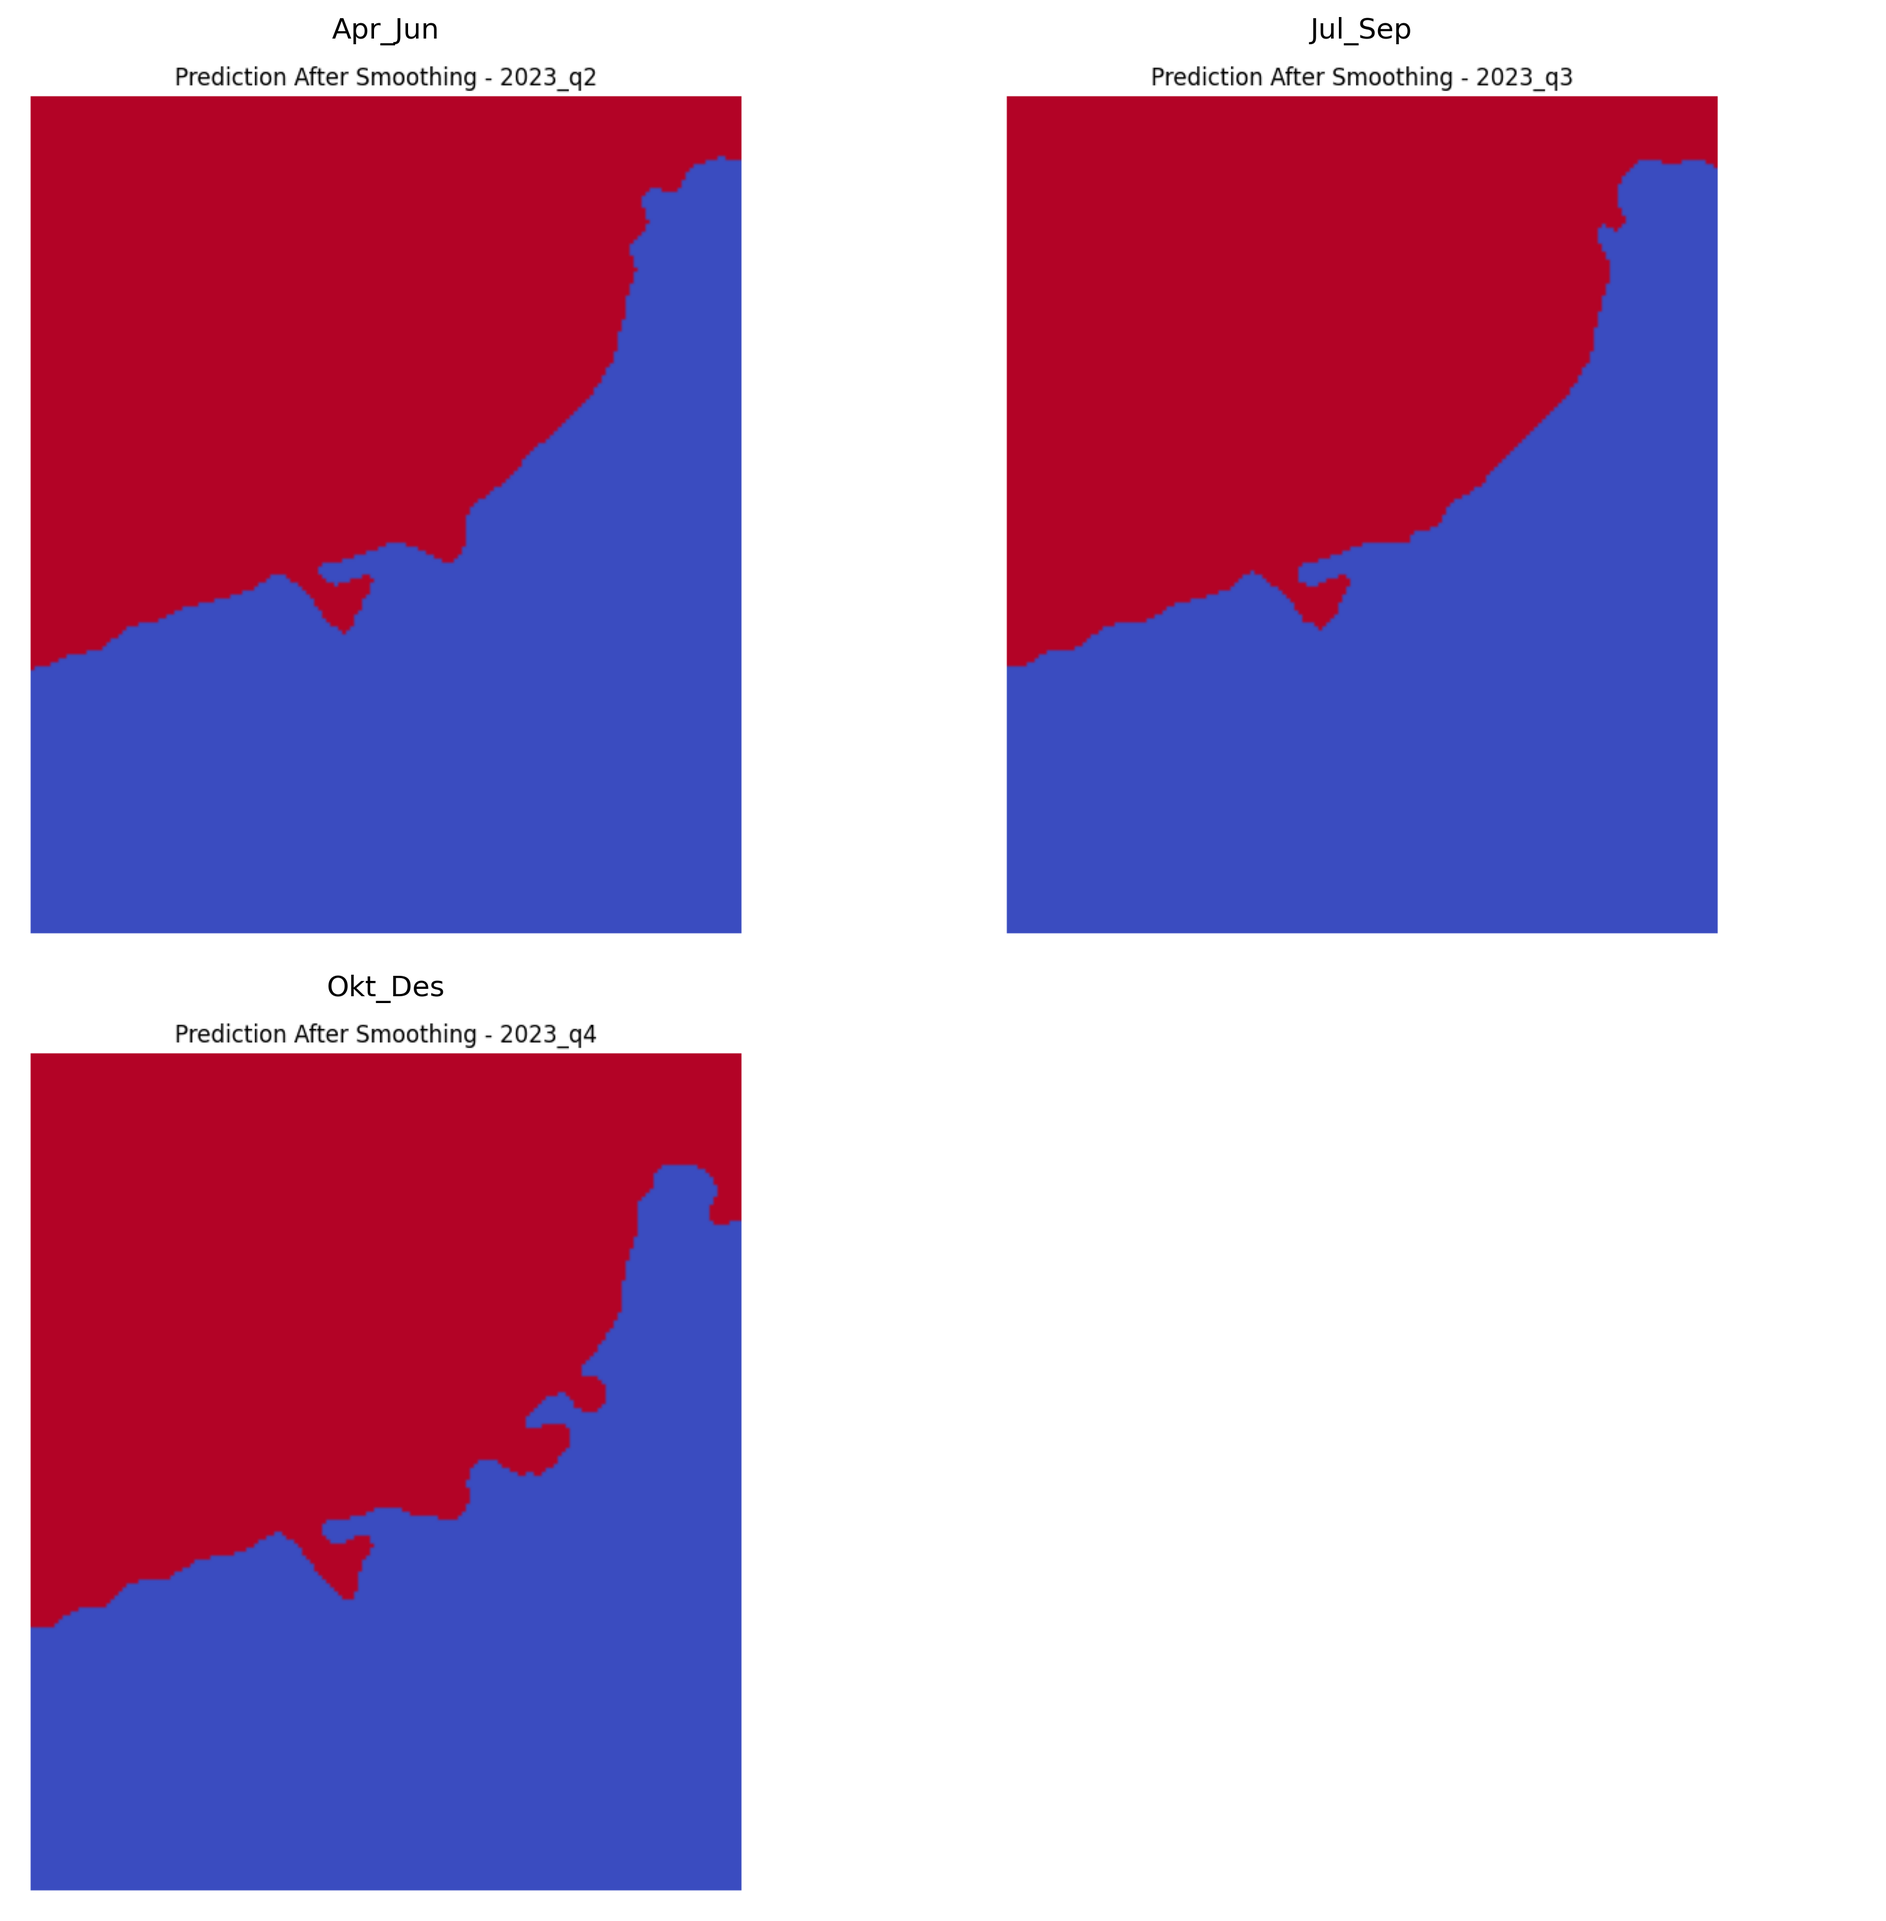
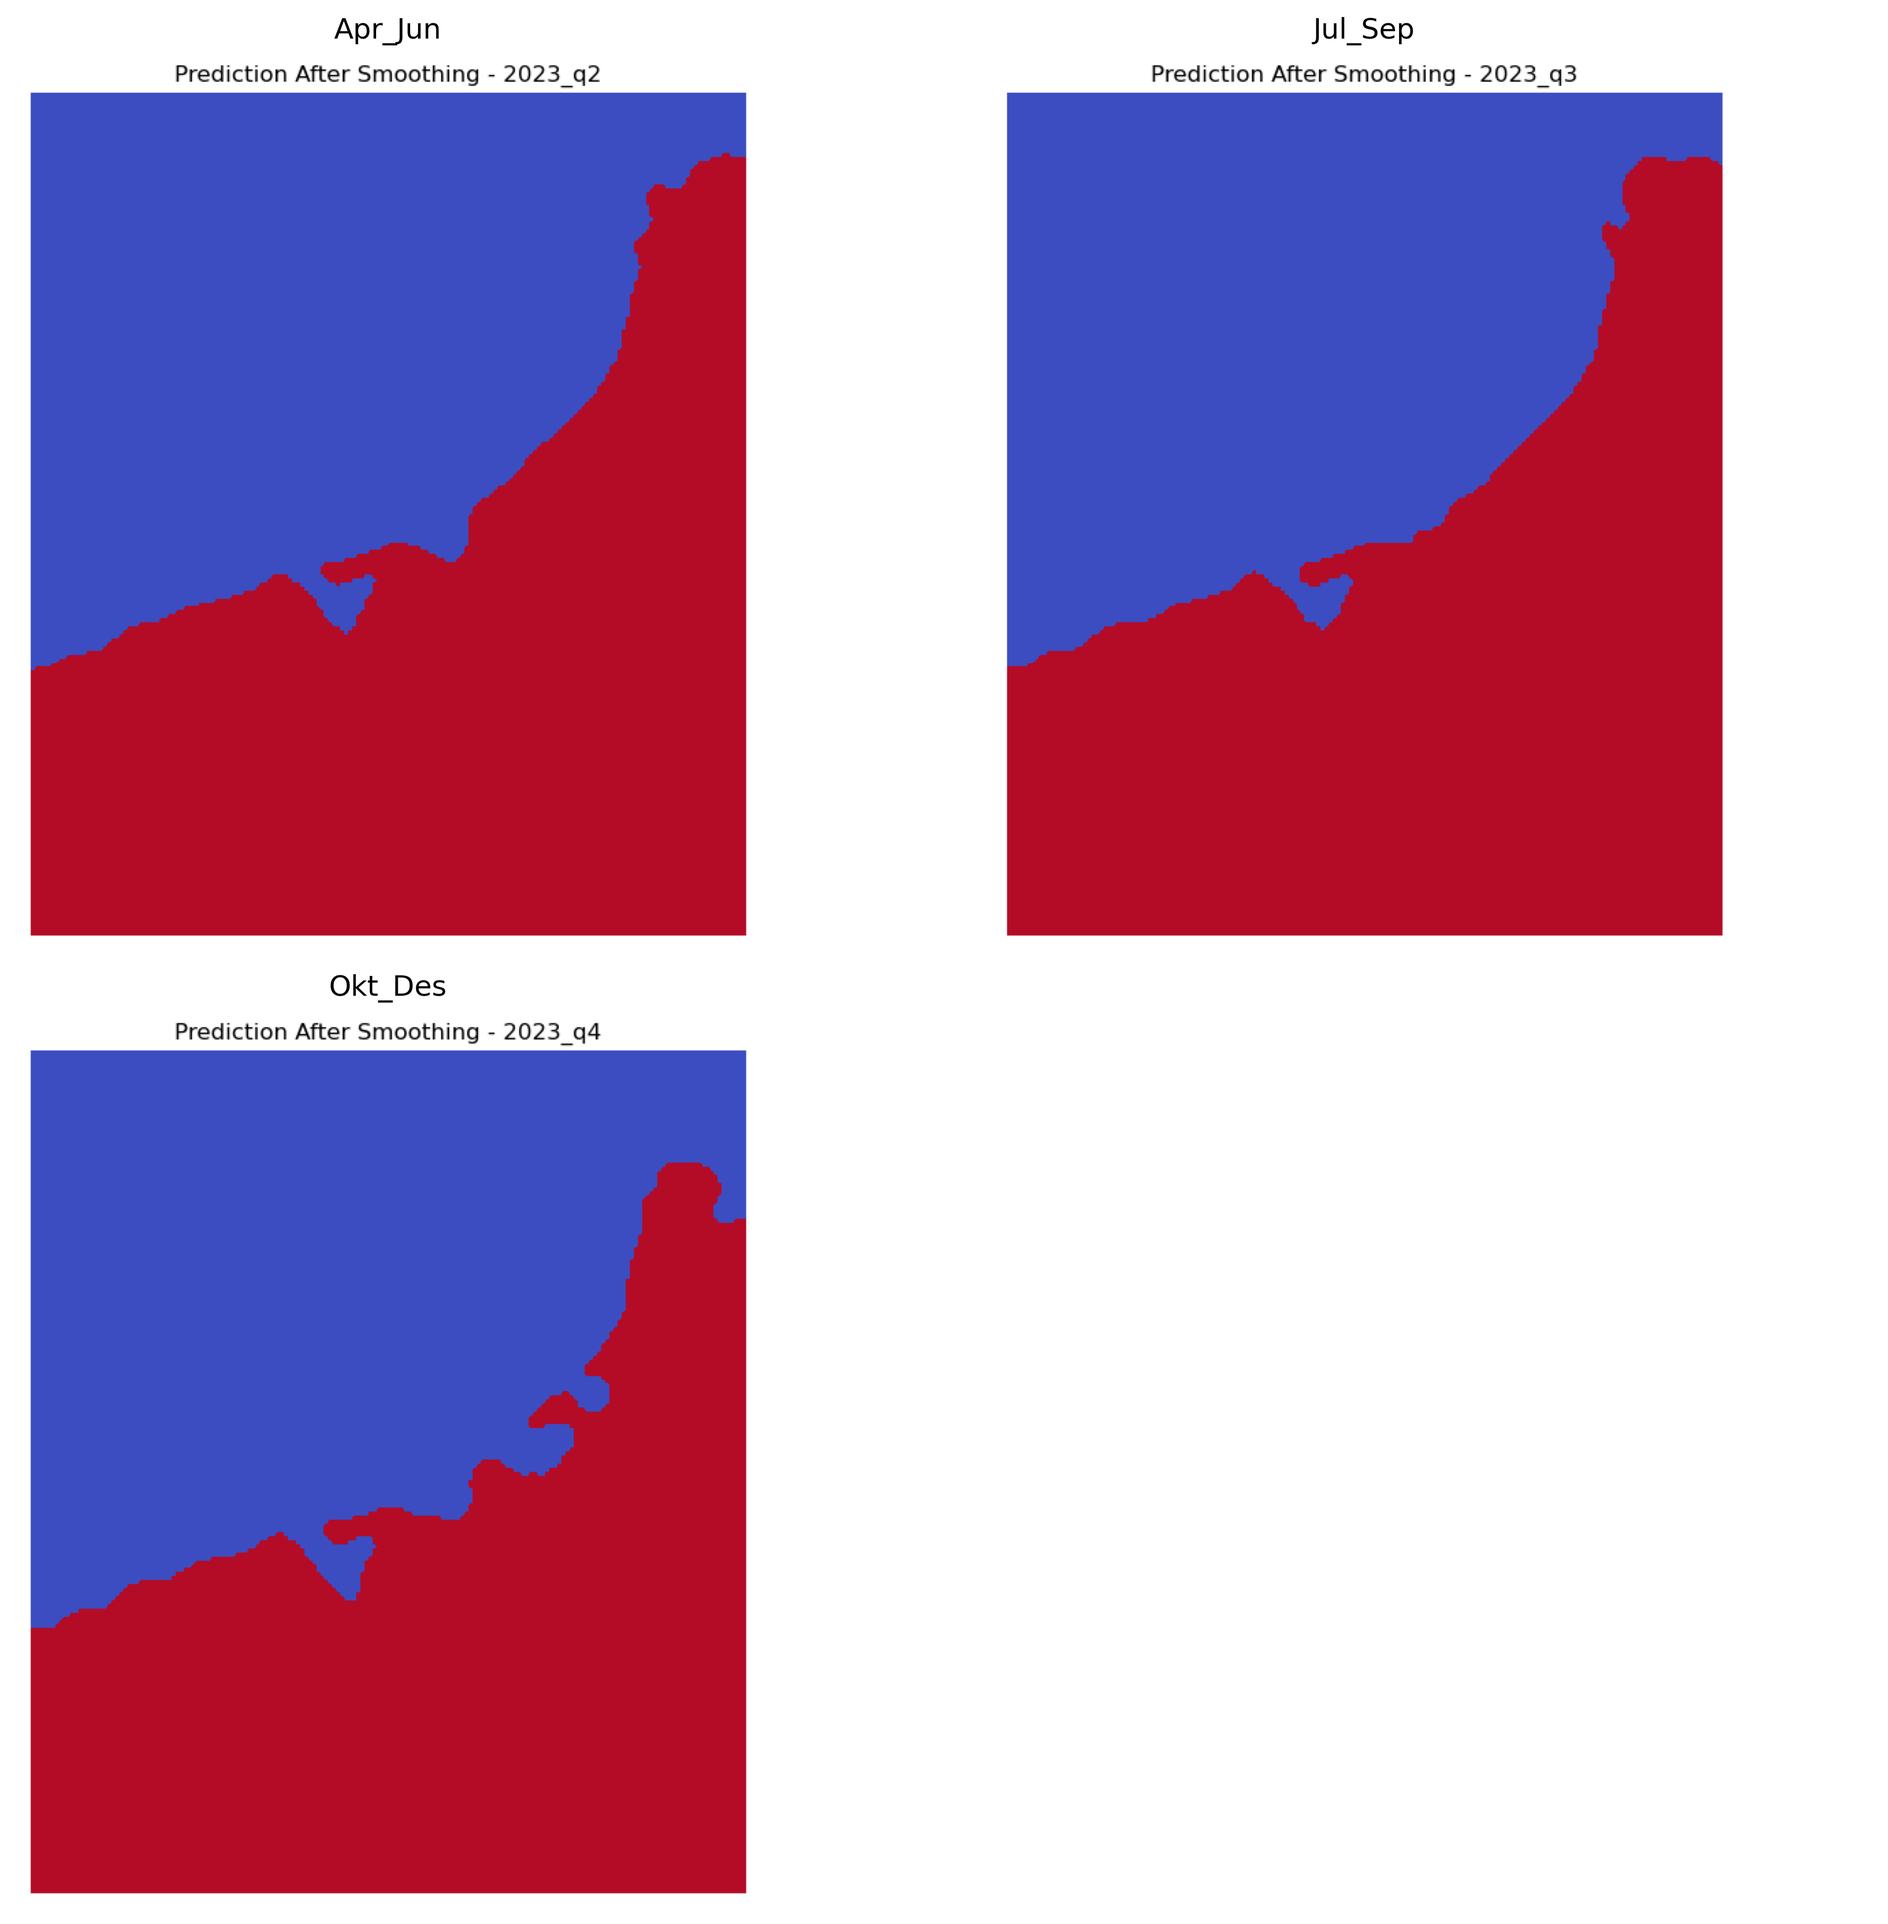
edit warna darat vs air

diff --git a/modules/coastline.py b/modules/coastline.py
@@ -6,6 +6,7 @@ from skimage import measure
 import matplotlib
 matplotlib.use('Agg')
 import matplotlib.pyplot as plt
+import matplotlib.colors as colors
 import random
 random.seed(42)
 np.random.seed(42)
@@ -78,8 +79,18 @@ def extract_coastline_from_geotiff(filepath, year, period, water_value=1, land_v
     # Pastikan array binary (0 dan 1)
     water_mask = (array == water_value)
     
+    # fig, ax = plt.subplots(figsize=(8, 8))
+    # ax.imshow(array, cmap="coolwarm")
+    # ax.axis("off")
+    # ax.set_title(f"Prediction After Smoothing - {year}_{period}")
+    
+    #=== Perubahan Warna ====
+    cmap = colors.ListedColormap(["#B40B27", "#3C4DC1"])
+    bounds = [0, 0.5, 1]
+    norm = colors.BoundaryNorm(bounds, cmap.N)
+
     fig, ax = plt.subplots(figsize=(8, 8))
-    ax.imshow(array, cmap="coolwarm")
+    ax.imshow(array, cmap=cmap, norm=norm)
     ax.axis("off")
     ax.set_title(f"Prediction After Smoothing - {year}_{period}")
 

diff --git a/modules/main.py b/modules/main.py
@@ -18,7 +18,7 @@ import combine_hasil
 # for i in range(2013, 2024): 
 #     combine_hasil.generate_prediction_all_by_year(i)
 for i in range(2013, 2025):
-    combine_hasil.generate_coastlines_all_by_year(i)
+    combine_hasil.generate_prediction_all_by_year(i)
 
 # General Coastline Sentinel-2
 # coastline_sentinel = sentinel_hasil.generate_coastline_sentinel()
